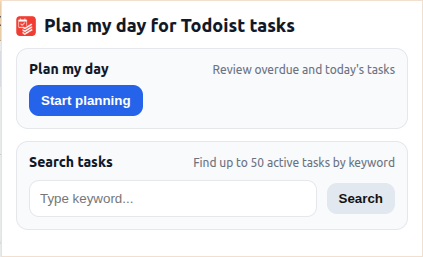
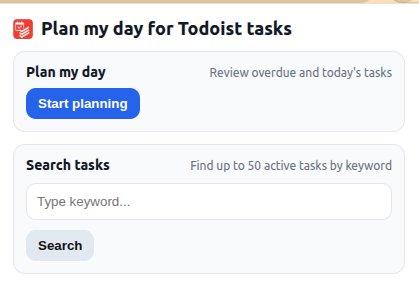
updated the extension to add a reminder at the same time as the task and also set the time-block to the same time as the task

diff --git a/popup.css b/popup.css
@@ -2,7 +2,8 @@
     --bg:#ffffff; --fg:#111827; --muted:#6b7280; --border:#e5e7eb; --card:#f8fafc; --accent:#2563eb;
   }
   *{ box-sizing:border-box; }
-  body{ margin:0; width:420px; font:14px system-ui, -apple-system, Segoe UI, Roboto, sans-serif; color:var(--fg); background:var(--bg);} 
+  body{ margin:0; width:520px; font:14px system-ui, -apple-system, Segoe UI, Roboto, sans-serif; color:var(--fg); background:var(--bg); overflow-x:hidden; }
+  body.is-task{ width:700px; }
   .wrap{ padding:14px; }
   .screen{ display:block; }
   .hidden{ display:none !important; }
@@ -11,27 +12,75 @@
   .muted{ color:var(--muted); }
   .label{ font-weight:700; margin-bottom:6px; }
   .row{ display:flex; gap:10px; align-items:center; margin-top:10px; flex-wrap:wrap; }
-  button{ background:var(--accent); color:#fff; border:none; padding:8px 12px; border-radius:10px; cursor:pointer; font-weight:600; }
+  button{ background:var(--accent); color:#fff; border:none; padding:8px 12px; border-radius:10px; cursor:pointer; font-weight:600; box-shadow:0 1px 0 rgba(0,0,0,.05); }
   button.secondary{ background:#e2e8f0; color:#111; }
+  button.secondary:hover{ background:#e5e7eb; }
+  button:hover{ filter:brightness(0.98); }
   input[type=password], input[type=text]{ width:100%; padding:10px; border:1px solid var(--border); border-radius:10px; }
   
   .task-card{ background:var(--card); border:1px solid var(--border); border-radius:12px; padding:10px; margin-bottom:10px; }
-  .task-title{ font-weight:700; }
-  .task-meta{ font-size:12px; color:var(--muted); }
+  body.is-task .task-card{ padding:10px 12px; margin-bottom:8px; }
+  .task-title{ font-weight:800; font-size:15px; display:flex; align-items:center; gap:8px; }
+  body.is-task .task-title{ font-size:14px; }
+  .task-title a{ color:#0f172a; text-decoration:none; }
+  .task-title a:hover{ text-decoration:underline; }
+  .task-meta{ font-size:12px; color:var(--muted); display:flex; gap:6px; flex-wrap:wrap; margin-top:6px; }
   
   .radios, .checks{ display:grid; gap:8px; grid-template-columns: repeat(2, minmax(0, 1fr)); }
+  body.is-task .radios, body.is-task .checks{ gap:6px; grid-template-columns: repeat(3, minmax(0, 1fr)); }
+  body.is-task .radios{ grid-template-columns: repeat(4, minmax(0, 1fr)); }
   .group{ background:var(--card); border:1px solid var(--border); border-radius:12px; padding:10px; margin:10px 0; }
+  body.is-task .group{ padding:8px; margin:6px 0; }
+  .group .label{ color:#334155; letter-spacing:.2px; }
+  .group .label::after{ content:''; display:block; height:2px; width:24px; background:linear-gradient(90deg, #93c5fd, #60a5fa); border-radius:2px; margin-top:4px; opacity:.7; }
+ 
+   /* Tile-style radios and checks */
+   .radios label, .checks label{
+     display:flex; align-items:center; gap:8px; padding:8px 10px; border:1px solid var(--border); border-radius:10px; background:#fff; cursor:pointer;
+     transition:background .12s ease, border-color .12s ease, box-shadow .12s ease;
+   }
+  body.is-task .radios label, body.is-task .checks label{ padding:6px 8px; }
+  /* Unified radio/checkbox appearance (native controls with green accent) */
+  .radios label{ position:static; padding-left:10px; }
+  .checks label:has(input[type="radio"]){ position:static; padding-left:10px; }
+  .radios input[type="radio"], .checks input[type="radio"]{ appearance:auto; -webkit-appearance:auto; accent-color:#16a34a; }
+  .checks input[type="checkbox"]{ appearance:auto; -webkit-appearance:auto; accent-color:#16a34a; }
+  .radios label:hover, .checks label:hover{ background:#f8fafc; border-color:#cbd5e1; }
+  .radios label:has(input:checked), .checks label:has(input:checked){
+    background:#ecfdf5; border-color:#86efac; box-shadow:0 0 0 2px rgba(134,239,172,.35) inset;
+  }
   
   .calendar-row{ display:flex; align-items:center; gap:10px; margin-top:8px; }
   .icon-btn{ display:inline-flex; align-items:center; gap:6px; background:#fff; color:#111; border:1px solid var(--border); padding:6px 10px; border-radius:8px; }
   #customDateLabel{ font-size:12px; }
   .status{ min-height:20px; font-size:12px; color:var(--muted); margin-top:6px; }
+  /* Keep action row sticky only on the task screen to avoid home scroll issues */
+  #screen-task #actionRow{ position:sticky; bottom:0; background:var(--bg); padding-top:8px; }
+  body.is-task #screen-task #actionRow{ padding-top:6px; padding-bottom:4px; }
+  body.is-task #screen-task #actionRow button{ padding:6px 10px; font-size:13px; }
   .feature{ background:var(--card); border:1px solid var(--border); border-radius:12px; padding:12px; margin:12px 0; }
   .feature-head{ display:flex; justify-content:space-between; align-items:baseline; margin-bottom:8px; }
   .feature-title{ font-weight:700; }
   .feature-subtitle{ color:var(--muted); font-size:12px; }
-  .list .task-card{ cursor:pointer; }
+  .list .task-card{ cursor:pointer; transition:transform .1s ease, box-shadow .1s ease, border-color .1s ease; border-left:4px solid transparent; }
   .list .task-card + .task-card{ margin-top:8px; }
+  .list .task-card:hover{ transform:translateY(-1px); box-shadow:0 2px 8px rgba(0,0,0,.06); border-color:#93c5fd; background:#eef6ff; }
+  .list .task-title{ display:flex; align-items:center; gap:8px; }
+  .badge{ display:inline-block; font-size:11px; font-weight:700; padding:2px 6px; border-radius:999px; background:#e2e8f0; color:#111; }
+  .badge.red{ background:#fee2e2; color:#991b1b; }
+  .badge.amber{ background:#fef3c7; color:#92400e; }
+  .badge.green{ background:#dcfce7; color:#065f46; }
+  .badge.blue{ background:#dbeafe; color:#1e3a8a; }
+  .pill{ font-size:11px; padding:2px 8px; border-radius:999px; border:1px solid var(--border); background:#fff; }
+  #searchHeader{ display:flex; align-items:center; justify-content:space-between; }
+  #searchHeader .count{ font-size:12px; color:var(--muted); }
+ 
+  /* Chips for task meta on review screen */
+  .chip{ display:inline-flex; align-items:center; gap:6px; font-size:11px; font-weight:600; padding:4px 8px; border-radius:999px; border:1px solid var(--border); background:#fff; color:#0f172a; }
+  body.is-task .chip{ font-size:10px; padding:3px 6px; }
+  .chip.blue{ background:#eff6ff; border-color:#bfdbfe; color:#1e3a8a; }
+  .chip.purple{ background:#f3e8ff; border-color:#e9d5ff; color:#5b21b6; }
+  .chip.amber{ background:#fffbeb; border-color:#fde68a; color:#92400e; }
   .header-title{ display:flex; align-items:center; gap:8px; }
   .header-title img{ border-radius:4px; }
   .row .sm{ padding:6px 10px; border-radius:8px; font-size:13px; }

diff --git a/popup.js b/popup.js
@@ -26,6 +26,7 @@ const searchInput = document.getElementById('searchInput');
 const searchBtn = document.getElementById('searchBtn');
 const searchList = document.getElementById('searchList');
 const backHomeBtn = document.getElementById('backHome');
+const searchHeader = document.getElementById('searchHeader');
 
 
 // Task UI
@@ -48,6 +49,12 @@ let cameFromSearch = false; // whether current task view was opened from search
 function show(el){
   [scrStart, scrToken, scrTask, scrDone, scrSearch].forEach(s => s && s.classList.add('hidden'));
   el && el.classList.remove('hidden');
+  // Widen popup only for task review to reduce vertical overflow
+  if (el === scrTask) {
+    document.body.classList.add('is-task');
+  } else {
+    document.body.classList.remove('is-task');
+  }
 }
 function qAll(sel){ return Array.from(document.querySelectorAll(sel)); }
 
@@ -321,15 +328,25 @@ async function searchTasksByKeyword(keyword){
 function renderSearchResults(list){
 	searchList.innerHTML = '';
 	if (!list.length){
+		searchHeader.innerHTML = 'Search results <span class="count">(0)</span>';
 		searchList.innerHTML = '<p class="muted">No matching active tasks found.</p>';
 		return;
 	}
+	searchHeader.innerHTML = `Search results <span class="count">(${list.length})</span>`;
 	for (const t of list){
 		const div = document.createElement('div');
 		div.className = 'task-card';
 		const pname = t.project_id ? (projectIdToName.get(String(t.project_id)) || t.project_id) : '';
 		const due = (t.due && t.due.string) ? t.due.string : '';
-		div.innerHTML = `<div class="task-title">${t.content || '(Untitled)'}${pname ? ' • ' + pname : ''}</div><div class="task-meta">${due}</div>`;
+		const labels = Array.isArray(t.labels) ? t.labels : [];
+		const urgency = labels.find(l => ['urgent-now','urgent-today','urgent-soon'].includes(String(l).toLowerCase()));
+		const pressure = labels.find(l => ['high-pressure','low-pressure'].includes(String(l).toLowerCase()));
+		const lhf = labels.find(l => String(l).toLowerCase() === 'low-hanging-fruit');
+		const urgencyBadge = urgency ? `<span class="badge red">${urgency}</span>` : '';
+		const pressureBadge = pressure ? `<span class="badge amber">${pressure}</span>` : '';
+		const lhfBadge = lhf ? `<span class="badge green">${lhf}</span>` : '';
+		const projectPill = pname ? `<span class="pill">${pname}</span>` : '';
+		div.innerHTML = `<div class="task-title">${projectPill}<span>${t.content || '(Untitled)'}</span></div><div class="task-meta">${due} ${urgencyBadge} ${pressureBadge} ${lhfBadge}</div>`;
 		div.addEventListener('click', async () => {
 			cameFromSearch = true;
 			await ensureProjectsLoaded();
@@ -366,14 +383,14 @@ function renderCurrentTask(){
   } else {
     taskTitleEl.textContent = titleText;
   }
-  const due = (t.due && t.due.string) ? ('Due: ' + t.due.string) : 'No due date';
-  const recurring = (t.due && t.due.is_recurring) ? ' • Recurring' : '';
-  let project = '';
-  if (t.project_id) {
-    const pname = projectIdToName.get(String(t.project_id));
-    project = ' • Project: ' + (pname || t.project_id);
-  }
-  taskMetaEl.textContent = due + recurring + project;
+  const dueStr = (t.due && t.due.string) ? t.due.string : null;
+  const isRecurring = !!(t.due && t.due.is_recurring);
+  const pname = t.project_id ? (projectIdToName.get(String(t.project_id)) || t.project_id) : null;
+  const chips = [];
+  if (pname) chips.push(`<span class="chip blue">${pname}</span>`);
+  if (dueStr) chips.push(`<span class="chip amber">Due: ${dueStr}</span>`);
+  if (isRecurring) chips.push(`<span class="chip purple">Recurring</span>`);
+  taskMetaEl.innerHTML = chips.join(' ');
 
   // Reset UI
   qAll('input[name="dateChoice"]').forEach(r => { r.checked = (r.value === 'today'); });
@@ -438,7 +455,6 @@ function renderCurrentTask(){
   setDateControlsEnabled(true);
 
   // Show/hide "Skip to next occurrence" for recurring only
-  const isRecurring = !!(t.due && t.due.is_recurring);
   const skipInput = document.querySelector('input[name="dateChoice"][value="skip_next"]');
   if (skipInput){
     const skipLabel = skipInput.closest('label');

diff --git a/scripts/reschedular-script.js b/scripts/reschedular-script.js
@@ -6,7 +6,7 @@
  * - Final tie-break: created_at oldest first
  * - Assign unique ranks 1..N in sorted order (no duplicates)
  * - Email report with columns: rank, labels, task, project, due time, due string
- * - Top 15 get due_datetime: now+5m, +15m, +25m... (10m gaps); others strip time
+ * - Top 10 get due_datetime: now+5m, +15m, +25m... (10m gaps); others strip time
  */
 
 const TODOIST_BASE = 'https://api.todoist.com/rest/v2';
@@ -26,7 +26,7 @@ const CATEGORY_ORDER = [
   // 6 => all others (no recognized labels)
 ];
 
-const TOP_N = 15; // how many to time-block
+const TOP_N = 10; // how many to time-block
 
 // ============= Entry point =============
 function run() {
@@ -284,7 +284,8 @@ function buildUpdates_(ordered) {
       updates.push({
         id: t.id,
         body: { due_datetime: toIsoWithTz_(slot, TARGET_TZ) },
-        note: 'time-block'
+        note: 'time-block',
+        slot: new Date(slot.getTime())
       });
     }
 
@@ -385,6 +386,38 @@ function toIsoWithTz_(instant, tz) {
 }
 
 
+// Create a reminder using Sync API: relative 0 minutes (at due time)
+function createReminderRelativeAtDue_(token, taskId) {
+  const syncUrl = 'https://api.todoist.com/sync/v9/sync';
+  const command = {
+    type: 'reminder_add',
+    uuid: Utilities.getUuid(),
+    temp_id: Utilities.getUuid(),
+    args: {
+      type: 'relative',
+      item_id: String(taskId),
+      minute_offset: 0,
+      is_deleted: false
+    }
+  };
+  const payload = {
+    resource_types: ['reminders'],
+    sync_token: '*',
+    commands: [command]
+  };
+  const res = UrlFetchApp.fetch(syncUrl, {
+    method: 'post',
+    muteHttpExceptions: true,
+    headers: { Authorization: 'Bearer ' + token, 'Content-Type': 'application/json' },
+    payload: JSON.stringify(payload)
+  });
+  if (res.getResponseCode() >= 200 && res.getResponseCode() < 300) {
+    Logger.log('   └ reminder (relative 0) set for task %s', taskId);
+  } else {
+    Logger.log('   └ failed reminder for %s: %s %s', taskId, res.getResponseCode(), res.getContentText());
+  }
+}
+
 function applyUpdates_(token, updates) {
   if (!updates.length) {
     Logger.log('No updates needed.');
@@ -397,6 +430,11 @@ function applyUpdates_(token, updates) {
     try {
       todoistFetch_(token, 'POST', '/tasks/' + u.id, u.body);
       Logger.log(' [%s/%s] OK %s (%s)', idx + 1, updates.length, u.id, u.note);
+
+      // If we set a due_datetime, also create a reminder at the due time via Sync API
+      if (u.body && u.body.due_datetime) {
+        createReminderRelativeAtDue_(token, u.id);
+      }
     } catch (e) {
       Logger.log(' [%s/%s] FAIL %s (%s): %s', idx + 1, updates.length, u.id, u.note, e.message);
     }

diff --git a/popup.html b/popup.html
@@ -58,7 +58,6 @@
           <div class="label">Date</div>
           <div class="radios">
             <label><input type="radio" name="dateChoice" value="today" checked /> Today</label>
-            <label><input type="radio" name="dateChoice" value="skip_next" /> Skip to next occurrence</label>
             <label><input type="radio" name="dateChoice" value="tomorrow" /> Tomorrow</label>
             <label><input type="radio" name="dateChoice" value="next_mon" /> next Mon</label>
             <label><input type="radio" name="dateChoice" value="next_tue" /> next Tues</label>
@@ -69,6 +68,7 @@
             <label><input type="radio" name="dateChoice" value="next_sun" /> next Sun</label>
             <label><input type="radio" name="dateChoice" value="next_28th" /> next 28th</label>
             <label><input type="radio" name="dateChoice" value="next_1st" /> next 1st</label>
+            <label><input type="radio" name="dateChoice" value="skip_next" /> Skip to next occurrence</label>
           </div>
         </div>
 
@@ -97,7 +97,7 @@
           </div>
         </div>
 
-        <div class="row">
+        <div class="row" id="actionRow">
           <button id="submitUpdate">Update</button>
           <button id="prevTask" class="secondary">Previous</button>
           <button id="skipTask" class="secondary">Skip</button>
@@ -116,7 +116,7 @@
 
       <!-- Screen 4: Search results -->
       <section id="screen-search" class="screen hidden">
-        <h1>Search results</h1>
+        <h1 id="searchHeader">Search results</h1>
         <div id="searchList" class="list"></div>
         <div class="row">
           <button id="backHome" class="secondary">Back</button>

diff --git a/README.md b/README.md
@@ -136,3 +136,76 @@ This preserves the recurring chain while also giving you a dated task to act on.
 ## License
 
 MIT
+
+## Google Apps Script Automation (Hourly Planner + Email)
+
+Use the included Apps Script to automatically rank and time‑block your top Todoist tasks every 30 minutes (aligned to :00 and :30 in IST), email a report, and set a Todoist reminder at the task’s due time.
+
+### What it does
+- **Ranks tasks**: Fetches active tasks due “today | overdue”, applies priority rules, assigns unique ranks starting at 1.
+- **Time‑blocks top tasks**: **Top 10** tasks get due times starting at “run time + 5 minutes” in `Asia/Kolkata`, then every 10 minutes; others keep the date but have their time removed.
+- **Emails a report**: Sends a ranked table to your inbox.
+- **Sets Todoist reminders**: For each updated task, creates a reminder at the exact due time (relative 0 minutes).
+
+### Files
+- Script source: `todoist-planner/scripts/reschedular-script.js`
+
+### One‑time setup (Apps Script)
+1. Go to `script.google.com`, create a new standalone project.
+2. In the editor, File → Project properties → set **Time zone** to `Asia/Kolkata`.
+3. Create a file named `reschedular-script.js` and paste the contents of `todoist-planner/scripts/reschedular-script.js`.
+4. Open the script and configure constants near the top:
+   - `TOKEN_PROP_KEY`: set to your Todoist REST API token string (from Todoist → Settings → Integrations → API token).
+   - `EMAIL_TO`: set your email address for the report.
+   - `TARGET_TZ`: keep as `Asia/Kolkata` (or change to your IANA timezone).
+   - Optional: `TOP_N` (default 10) to control how many tasks get time‑blocked.
+5. Click Run → select `run` → authorize when prompted.
+   - Check the execution logs for a line like: “Planner first slot (IST): now=… → first=…”. The “first” time should be 5 minutes after “now”.
+   - You should also receive the email report.
+
+### Scheduling every 30 minutes, aligned to :00 and :30 (IST)
+- In Apps Script editor, left sidebar → **Triggers** → **Add Trigger** twice:
+  - Trigger 1: Function `run`, Event source `Time-driven`, Type `Hour timer`, Every hour, Minute `0`.
+  - Trigger 2: Function `run`, Event source `Time-driven`, Type `Hour timer`, Every hour, Minute `30`.
+- Ensure your project’s Time zone is `Asia/Kolkata` so triggers fire aligned to IST.
+
+Optionally, you can create triggers programmatically by adding this function and running it once:
+
+```javascript
+function setupTriggers() {
+  // Remove existing time-based triggers for 'run'
+  ScriptApp.getProjectTriggers().forEach(tr => {
+    if (tr.getHandlerFunction() === 'run' && tr.getEventType() === ScriptApp.EventType.CLOCK) {
+      ScriptApp.deleteTrigger(tr);
+    }
+  });
+
+  // Hourly at :00 IST
+  ScriptApp.newTrigger('run')
+    .timeBased()
+    .everyHours(1)
+    .nearMinute(0)
+    .inTimezone('Asia/Kolkata')
+    .create();
+
+  // Hourly at :30 IST
+  ScriptApp.newTrigger('run')
+    .timeBased()
+    .everyHours(1)
+    .nearMinute(30)
+    .inTimezone('Asia/Kolkata')
+    .create();
+}
+```
+
+### Permissions
+- Uses `UrlFetchApp` to call the Todoist REST and Sync APIs.
+- Uses `MailApp` to send the report email.
+
+### Notes and troubleshooting
+- **Reminders**: The script adds a Todoist reminder at the exact due time (relative, 0 minutes). Re‑running may add additional reminders for the same task/time; a dedupe step can be added if needed.
+- **Timezone**: Set project Time zone to `Asia/Kolkata` and keep `TARGET_TZ` consistent. The email and schedule use this timezone.
+- **First slot**: Computed as “execution now + 5 minutes”. Check logs for “Planner first slot (IST)” to verify alignment.
+- **Rate limiting**: The script sleeps between requests to stay under Todoist limits.
+- **API token security**: Do not commit your token. Keep it in the script constant or adapt the script to read from project properties.
+
